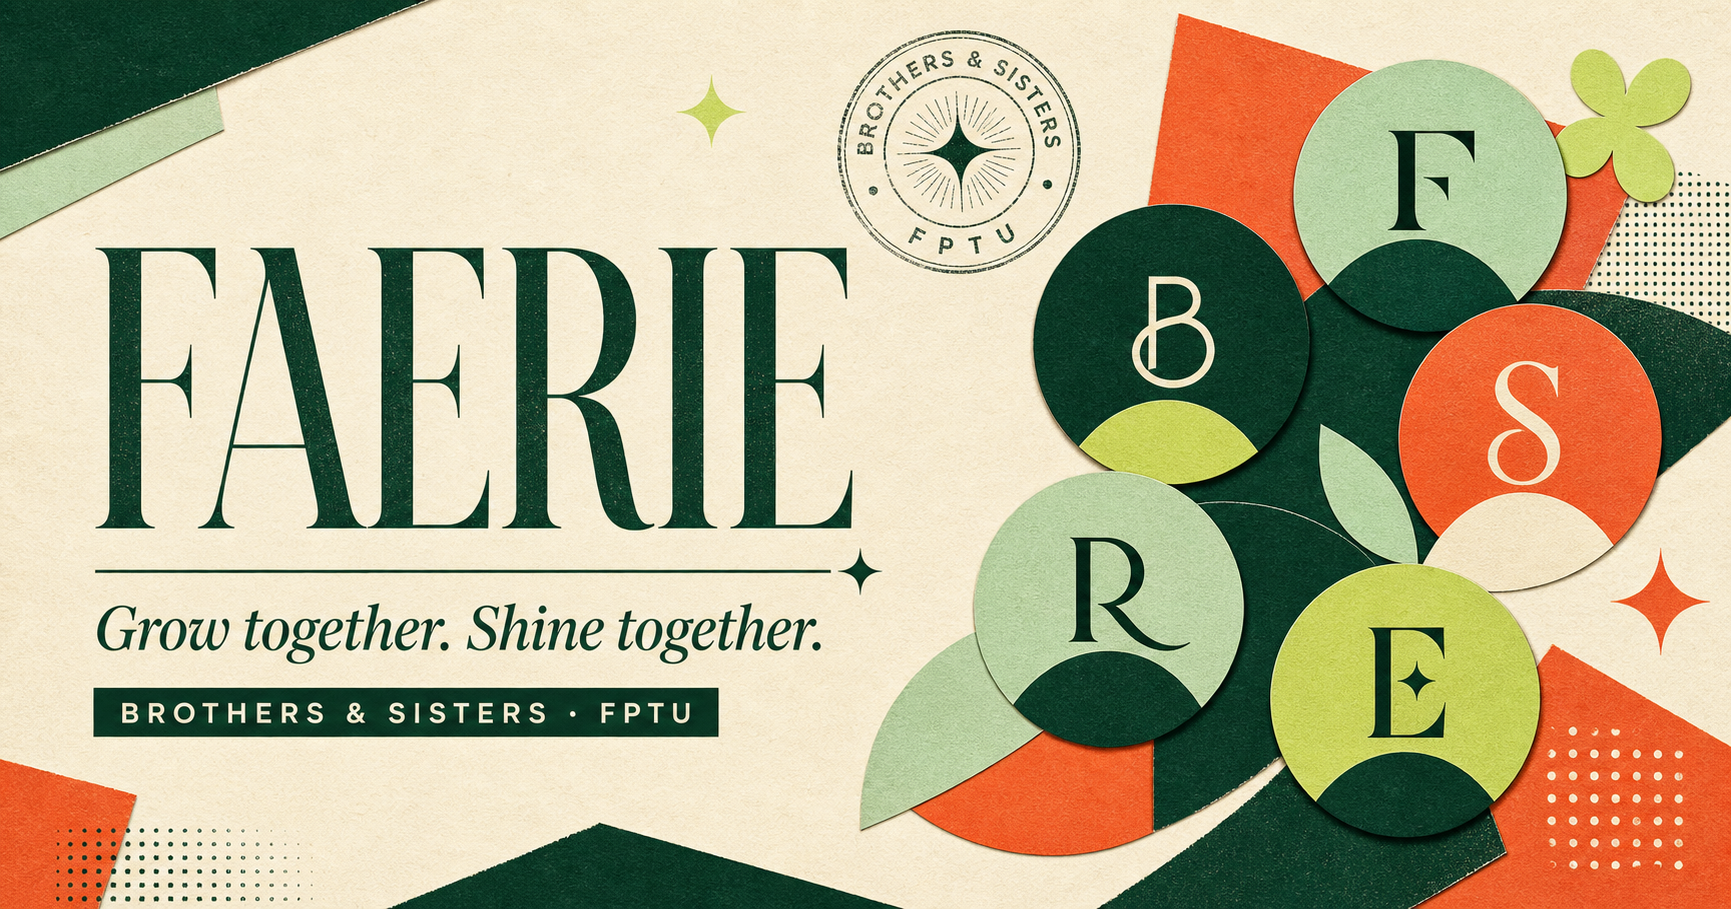
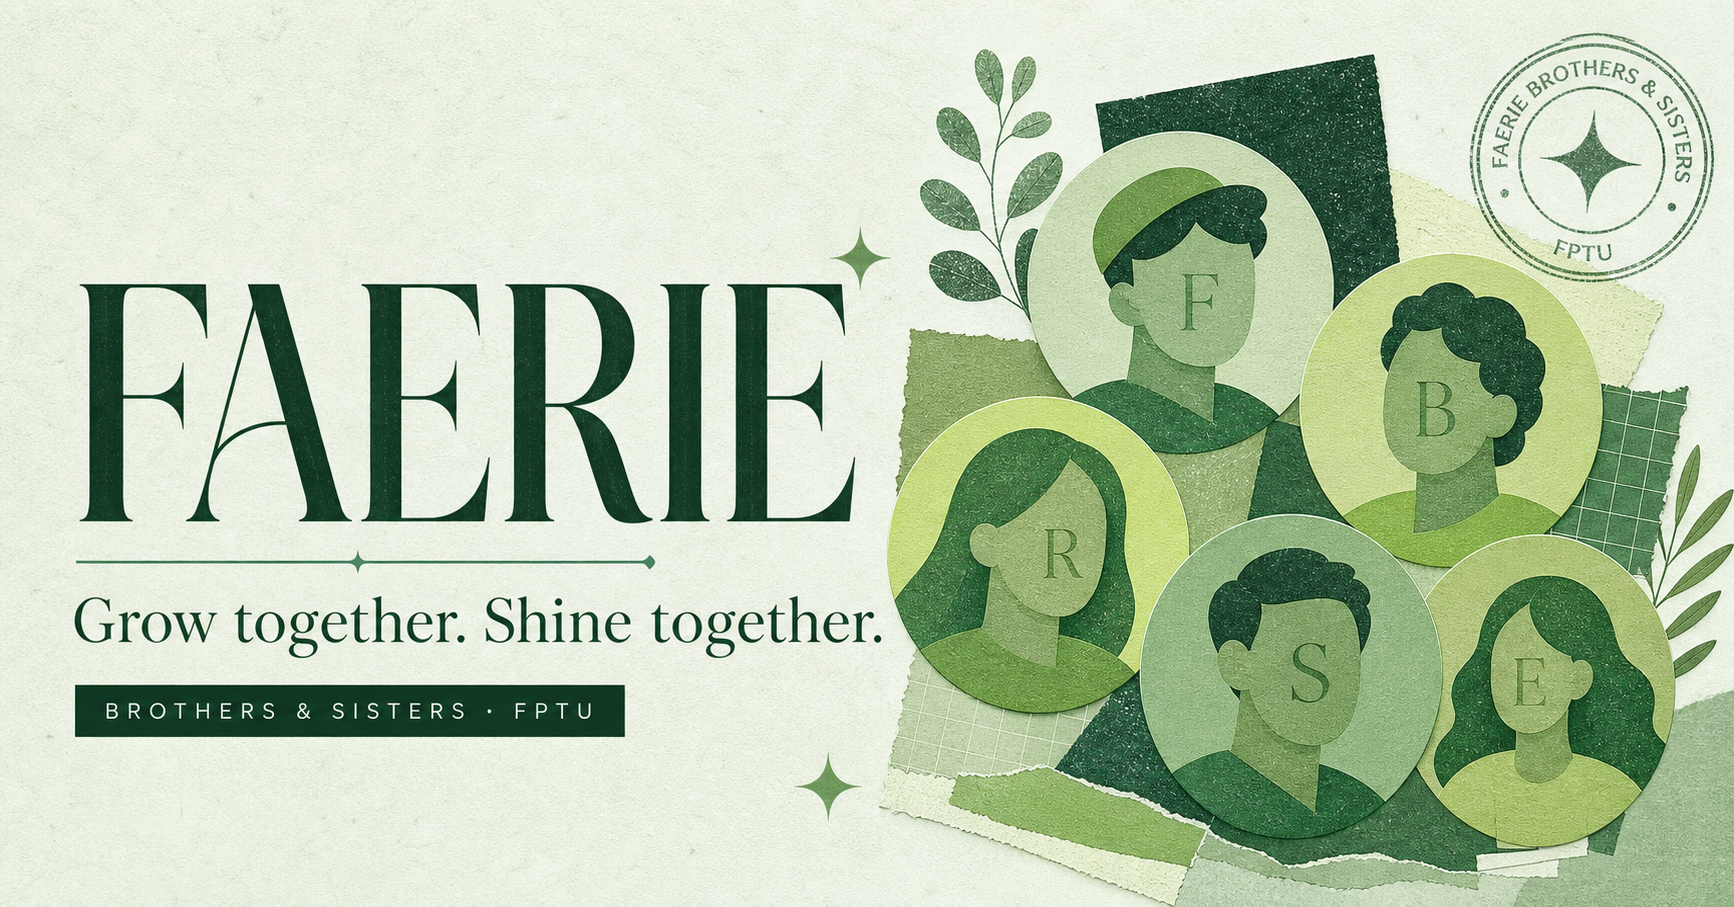
Switch Faerie brand to green-only palette

diff --git a/app/globals.css b/app/globals.css
@@ -2,13 +2,13 @@
 
 :root {
   --ink: #173a2d;
-  --deep: #0f2d23;
+  --deep: #0b291d;
   --green: #2f6b52;
-  --mint: #c8e1c8;
-  --lime: #d9ee8c;
-  --cream: #f5f0e5;
-  --paper: #fffdf8;
-  --orange: #f1724e;
+  --mint: #cbe3cc;
+  --lime: #b8d878;
+  --cream: #eef5ec;
+  --paper: #fbfdf9;
+  --accent: #6f9f57;
   --line: rgba(23, 58, 45, 0.18);
 }
 
@@ -119,7 +119,7 @@ h1, h2, blockquote { font-family: var(--font-display), serif; font-weight: 400; 
   line-height: .82;
   letter-spacing: -.045em;
 }
-h1 em, h2 em, blockquote em { color: var(--orange); font-weight: inherit; }
+h1 em, h2 em, blockquote em { color: var(--accent); font-weight: inherit; }
 .hero-lead { max-width: 590px; margin: 34px 0 0 12%; font-size: 15px; line-height: 1.85; color: rgba(23,58,45,.76); }
 .hero-actions { display: flex; align-items: center; gap: 30px; margin: 30px 0 0 12%; }
 .primary-button {
@@ -146,7 +146,7 @@ h1 em, h2 em, blockquote em { color: var(--orange); font-weight: inherit; }
 .year-card { position: absolute; display: flex; flex-direction: column; overflow: hidden; border-radius: 4px; box-shadow: 0 28px 50px rgba(15,45,35,.18); }
 .card-back {
   top: 44px; right: 6%; width: 290px; height: 405px; padding: 26px;
-  transform: rotate(11deg); background: var(--orange); color: var(--cream);
+  transform: rotate(11deg); background: var(--accent); color: var(--cream);
 }
 .card-back > span { font-size: 10px; letter-spacing: .2em; }
 .card-back strong { margin-top: auto; font-family: var(--font-display); font-size: 150px; line-height: .75; color: var(--deep); }
@@ -160,13 +160,13 @@ h1 em, h2 em, blockquote em { color: var(--orange); font-weight: inherit; }
 .card-front > strong { margin: 23px 0 0; font-family: var(--font-display); font-size: 94px; line-height: .8; letter-spacing: -.06em; }
 .portrait-cluster { display: flex; margin: 32px 0 22px; }
 .portrait-cluster i { width: 52px; height: 52px; margin-right: -10px; display: grid; place-items: center; border-radius: 50%; border: 3px solid var(--mint); background: var(--ink); color: var(--cream); font-style: normal; font-size: 10px; }
-.portrait-cluster i:nth-child(2) { background: var(--orange); }
-.portrait-cluster i:nth-child(3) { background: #94b6d8; }
-.portrait-cluster i:nth-child(4) { background: #8b76a7; }
+.portrait-cluster i:nth-child(2) { background: var(--accent); }
+.portrait-cluster i:nth-child(3) { background: #88b58a; }
+.portrait-cluster i:nth-child(4) { background: #5f8f68; }
 .card-front small { margin-top: auto; font-size: 10px; font-weight: 800; line-height: 1.5; letter-spacing: .08em; }
 .round-stamp { position: absolute; right: 2%; bottom: 30px; z-index: 4; width: 112px; height: 112px; display: grid; place-items: center; align-content: center; transform: rotate(10deg); border-radius: 50%; background: var(--lime); border: 1px solid var(--ink); text-align: center; font-size: 8px; font-weight: 800; line-height: 1.3; letter-spacing: .08em; box-shadow: 4px 5px 0 var(--ink); }
 .round-stamp span { display: block; font-family: var(--font-display); font-size: 32px; line-height: 1; }
-.spark { position: absolute; z-index: 5; color: var(--orange); font-size: 30px; }
+.spark { position: absolute; z-index: 5; color: var(--accent); font-size: 30px; }
 .spark-one { left: 2%; top: 12px; }
 .spark-two { right: 20%; bottom: 10px; font-size: 18px; color: var(--green); }
 
@@ -175,7 +175,7 @@ h1 em, h2 em, blockquote em { color: var(--orange); font-weight: inherit; }
 .stats-strip strong { font-family: var(--font-display); font-size: 42px; color: var(--lime); }
 .stats-strip span { font-size: 9px; line-height: 1.5; letter-spacing: .08em; text-transform: uppercase; }
 .stats-strip p { justify-content: center; border: 0; font-size: 11px; font-weight: 700; line-height: 1.65; letter-spacing: .12em; }
-.stats-strip p b { color: var(--orange); font-size: 20px; }
+.stats-strip p b { color: var(--accent); font-size: 20px; }
 
 .events { padding-top: 120px; padding-bottom: 130px; background: var(--paper); }
 .section-heading { display: flex; justify-content: space-between; align-items: end; gap: 30px; margin-bottom: 54px; }
@@ -195,11 +195,11 @@ h1 em, h2 em, blockquote em { color: var(--orange); font-weight: inherit; }
 .event-card.featured { grid-column: span 2; }
 .event-card.featured .event-visual { height: 330px; }
 .event-visual.mint { background: var(--mint); }
-.event-visual.orange { background: #f2a38a; }
-.event-visual.cream { background: #ece3d1; }
-.event-visual.green { background: #9fc1a0; }
-.event-visual.purple { background: #c8bad2; }
-.event-visual.blue { background: #b3cee2; }
+.event-visual.fern { background: #a8cf91; }
+.event-visual.cream { background: #e4efe1; }
+.event-visual.green { background: #86ad7c; }
+.event-visual.purple { background: #b5d7ac; }
+.event-visual.blue { background: #94c6a0; }
 .event-visual::before, .event-visual::after { content: ""; position: absolute; width: 56%; aspect-ratio: 1; border: 1px solid rgba(23,58,45,.32); border-radius: 50%; }
 .event-visual::after { width: 39%; }
 .event-number { position: absolute; top: 18px; left: 18px; font-size: 9px; font-weight: 800; }
@@ -217,7 +217,7 @@ h1 em, h2 em, blockquote em { color: var(--orange); font-weight: inherit; }
 .about { display: grid; grid-template-columns: .45fr 1.55fr; gap: 6vw; padding-top: 120px; padding-bottom: 120px; background: var(--cream); border-top: 1px solid var(--line); }
 .about-label { display: flex; flex-direction: column; justify-content: space-between; font-size: 9px; font-weight: 700; letter-spacing: .12em; }
 .mini-orbit { width: 118px; height: 118px; display: grid; place-items: center; align-content: center; border: 1px solid var(--ink); border-radius: 50%; font-family: var(--font-display); font-size: 46px; line-height: .55; box-shadow: inset 0 0 0 10px var(--cream), inset 0 0 0 11px var(--line); }
-.mini-orbit i { color: var(--orange); font-size: 17px; font-style: normal; }
+.mini-orbit i { color: var(--accent); font-size: 17px; font-style: normal; }
 .about-copy > .eyebrow { margin-bottom: 28px; }
 .about-columns { display: grid; grid-template-columns: 1fr 1fr; gap: 4vw; margin: 48px 0; padding-left: 10%; }
 .about-columns p { margin: 0; font-size: 13px; line-height: 1.85; color: rgba(23,58,45,.75); }
@@ -226,7 +226,7 @@ h1 em, h2 em, blockquote em { color: var(--orange); font-weight: inherit; }
 .values-row span:last-child { border: 0; }
 .values-row b { margin-right: 7px; font-family: var(--font-sans); font-size: 7px; vertical-align: top; }
 
-.quote-band { position: relative; min-height: 420px; display: grid; place-items: center; padding: 70px 24px; overflow: hidden; background: var(--orange); color: var(--deep); text-align: center; }
+.quote-band { position: relative; min-height: 420px; display: grid; place-items: center; padding: 70px 24px; overflow: hidden; background: var(--accent); color: var(--deep); text-align: center; }
 .quote-mark { position: absolute; top: -65px; left: 5vw; font-family: var(--font-display); font-size: 330px; line-height: 1; color: rgba(255,255,255,.16); }
 .quote-band blockquote { z-index: 1; margin: 0; font-size: clamp(44px, 5vw, 76px); line-height: 1.05; letter-spacing: -.03em; }
 .quote-band blockquote em { color: var(--cream); }
@@ -253,10 +253,10 @@ h1 em, h2 em, blockquote em { color: var(--orange); font-weight: inherit; }
 .role-filter { display: flex; flex-wrap: wrap; gap: 9px; padding: 28px 0; }
 .role-filter button { padding: 9px 14px; border: 1px solid var(--line); border-radius: 999px; background: transparent; font-size: 9px; font-weight: 700; cursor: pointer; }
 .role-filter button span { margin-left: 6px; opacity: .55; }
-.role-filter button.active { background: var(--orange); border-color: var(--orange); color: var(--deep); }
+.role-filter button.active { background: var(--accent); border-color: var(--accent); color: var(--deep); }
 .directory-title { display: flex; justify-content: space-between; align-items: end; margin: 34px 0 30px; }
 .directory-title h2 { margin: 0; font-family: var(--font-display); font-size: clamp(38px, 4vw, 58px); font-weight: 400; letter-spacing: -.03em; }
-.directory-title h2 em { color: var(--orange); }
+.directory-title h2 em { color: var(--accent); }
 .directory-title > span { font-size: 8px; font-weight: 800; letter-spacing: .12em; text-transform: uppercase; }
 .member-grid { display: grid; grid-template-columns: repeat(4, 1fr); gap: 32px 18px; }
 .member-card { min-width: 0; }
@@ -266,10 +266,10 @@ h1 em, h2 em, blockquote em { color: var(--orange); font-weight: inherit; }
 .avatar::before { width: 150px; height: 150px; }
 .avatar::after { width: 110px; height: 110px; background: rgba(255,255,255,.2); }
 .avatar.sage { background: #b9d1bb; }
-.avatar.sun { background: #efd786; }
-.avatar.sky { background: #b7d1e1; }
-.avatar.lilac { background: #cbbbd6; }
-.avatar.coral { background: #eda28b; }
+.avatar.sun { background: #cfe29d; }
+.avatar.sky { background: #add6bd; }
+.avatar.lilac { background: #b8ceb2; }
+.avatar.coral { background: #94c692; }
 .avatar.lime { background: #d9e99b; }
 .avatar > span { z-index: 2; font-family: var(--font-display); font-size: 43px; letter-spacing: -.06em; }
 .avatar small { position: absolute; top: 14px; left: 15px; font-size: 8px; font-weight: 800; }
@@ -278,10 +278,10 @@ h1 em, h2 em, blockquote em { color: var(--orange); font-weight: inherit; }
 .member-info p { margin: 5px 0 0; font-size: 8px; font-weight: 700; letter-spacing: .08em; text-transform: uppercase; opacity: .55; }
 .role-badge { flex: 0 1 auto; max-width: 52%; padding: 6px 8px; border: 1px solid var(--line); border-radius: 999px; font-size: 7px; font-weight: 800; line-height: 1.35; text-align: center; text-transform: uppercase; }
 .role-badge.mentor { background: var(--ink); color: white; }
-.role-badge.supporter { background: var(--orange); border-color: var(--orange); }
+.role-badge.supporter { background: var(--accent); border-color: var(--accent); }
 .role-badge.leadership { background: var(--lime); border-color: var(--lime); }
 .empty-state { min-height: 300px; display: grid; place-items: center; align-content: center; text-align: center; }
-.empty-state > span { font-size: 35px; color: var(--orange); }
+.empty-state > span { font-size: 35px; color: var(--accent); }
 .empty-state h3 { margin: 12px 0 5px; font-family: var(--font-display); font-size: 25px; font-weight: 400; }
 .empty-state p { margin: 0; font-size: 11px; opacity: .6; }
 
@@ -289,7 +289,7 @@ h1 em, h2 em, blockquote em { color: var(--orange); font-weight: inherit; }
 .top-hero { min-height: 620px; display: grid; grid-template-columns: 1.15fr .85fr; align-items: center; gap: 8vw; overflow: hidden; background: var(--lime); border-bottom: 1px solid var(--line); }
 .top-hero-copy h1 { margin: 0; font-size: clamp(72px, 8vw, 126px); line-height: .8; letter-spacing: -.055em; }
 .top-hero-copy > p:last-child { max-width: 590px; margin: 36px 0 0 10%; font-size: 13px; line-height: 1.85; color: rgba(23,58,45,.72); }
-.champion-card { position: relative; width: min(390px, 100%); min-height: 470px; display: flex; flex-direction: column; align-items: center; justify-content: center; justify-self: center; padding: 45px 30px 34px; transform: rotate(3deg); background: var(--ink); color: var(--cream); border: 10px solid var(--paper); box-shadow: 22px 24px 0 var(--orange); text-align: center; }
+.champion-card { position: relative; width: min(390px, 100%); min-height: 470px; display: flex; flex-direction: column; align-items: center; justify-content: center; justify-self: center; padding: 45px 30px 34px; transform: rotate(3deg); background: var(--ink); color: var(--cream); border: 10px solid var(--paper); box-shadow: 22px 24px 0 var(--accent); text-align: center; }
 .champion-rank { position: absolute; top: 20px; left: 22px; font-family: var(--font-display); font-size: 26px; color: var(--lime); }
 .champion-avatar { width: 145px; height: 145px; display: grid; place-items: center; margin-bottom: 24px; border-radius: 50%; background: var(--mint); color: var(--ink); font-family: var(--font-display); font-size: 48px; box-shadow: inset 0 0 0 12px rgba(255,255,255,.28); }
 .champion-card small { font-size: 7px; font-weight: 800; letter-spacing: .18em; color: var(--lime); }
@@ -300,7 +300,7 @@ h1 em, h2 em, blockquote em { color: var(--orange); font-weight: inherit; }
 .leaderboard { padding-top: 110px; padding-bottom: 120px; }
 .leaderboard-heading { display: flex; justify-content: space-between; align-items: end; gap: 24px; margin-bottom: 45px; }
 .leaderboard-heading h2 { margin: 0; font-family: var(--font-display); font-size: clamp(47px, 5vw, 72px); font-weight: 400; letter-spacing: -.04em; }
-.leaderboard-heading h2 em { color: var(--orange); }
+.leaderboard-heading h2 em { color: var(--accent); }
 .leaderboard-heading > p { margin: 0 0 8px; font-size: 8px; font-weight: 800; letter-spacing: .12em; text-transform: uppercase; }
 .leaderboard-table { border-top: 1px solid var(--ink); }
 .leaderboard-row { display: grid; grid-template-columns: 75px minmax(280px, 1fr) 120px 120px 110px; align-items: center; min-height: 92px; border-bottom: 1px solid var(--line); }
@@ -310,10 +310,10 @@ h1 em, h2 em, blockquote em { color: var(--orange); font-weight: inherit; }
 .rank-person { display: flex; align-items: center; gap: 17px; min-width: 0; }
 .rank-avatar { flex: 0 0 auto; width: 50px; height: 50px; display: grid; place-items: center; border-radius: 50%; font-family: var(--font-display); font-size: 18px; }
 .rank-avatar.sage { background: #b9d1bb; }
-.rank-avatar.sun { background: #efd786; }
-.rank-avatar.sky { background: #b7d1e1; }
-.rank-avatar.lilac { background: #cbbbd6; }
-.rank-avatar.coral { background: #eda28b; }
+.rank-avatar.sun { background: #cfe29d; }
+.rank-avatar.sky { background: #add6bd; }
+.rank-avatar.lilac { background: #b8ceb2; }
+.rank-avatar.coral { background: #94c692; }
 .rank-avatar.lime { background: #d9e99b; }
 .rank-person h3 { margin: 0; font-family: var(--font-display); font-size: 20px; font-weight: 400; }
 .rank-person p { margin: 3px 0 0; font-size: 7px; font-weight: 800; letter-spacing: .08em; text-transform: uppercase; opacity: .55; }
@@ -322,7 +322,7 @@ h1 em, h2 em, blockquote em { color: var(--orange); font-weight: inherit; }
 .rank-metric small, .rank-points small { font-size: 6px; font-weight: 800; letter-spacing: .1em; text-transform: uppercase; opacity: .5; }
 .rank-points { font-family: var(--font-display); font-size: 25px; }
 .leaderboard-row.podium { margin: 0 -16px; padding: 0 16px; background: var(--cream); }
-.leaderboard-row.podium .rank-number, .leaderboard-row.podium .rank-points { color: var(--orange); }
+.leaderboard-row.podium .rank-number, .leaderboard-row.podium .rank-points { color: var(--accent); }
 
 footer { min-height: 220px; display: grid; grid-template-columns: 1.1fr 1fr 1.2fr auto; align-items: center; gap: 30px; padding: 55px max(5vw, 24px); background: var(--deep); color: var(--cream); }
 .footer-brand { display: flex; align-items: center; gap: 13px; font-size: 18px; letter-spacing: .15em; }

diff --git a/app/layout.tsx b/app/layout.tsx
@@ -29,7 +29,7 @@ export async function generateMetadata(): Promise<Metadata> {
       description: "Khám phá câu chuyện, Top 20 và các thế hệ nhà Faerie tại FPTU campus TP.HCM.",
       type: "website",
       locale: "vi_VN",
-      images: [{ url: "/og.png", width: 1731, height: 909, alt: "Faerie Brothers & Sisters FPTU" }],
+      images: [{ url: "/og.png", width: 1734, height: 907, alt: "Faerie Brothers & Sisters FPTU" }],
     },
     twitter: {
       card: "summary_large_image",

diff --git a/app/page.tsx b/app/page.tsx
@@ -42,7 +42,7 @@ const eventsByYear: Record<Year, Array<{
         "Buổi gặp mặt trực tiếp đầu tiên của cả nhà, nơi những cái tên trên màn hình trở thành bạn bè và những kế hoạch bắt đầu thành hình.",
       tag: "Meet up",
       location: "TP.HCM",
-      tone: "orange",
+      tone: "fern",
     },
   ],
 };
